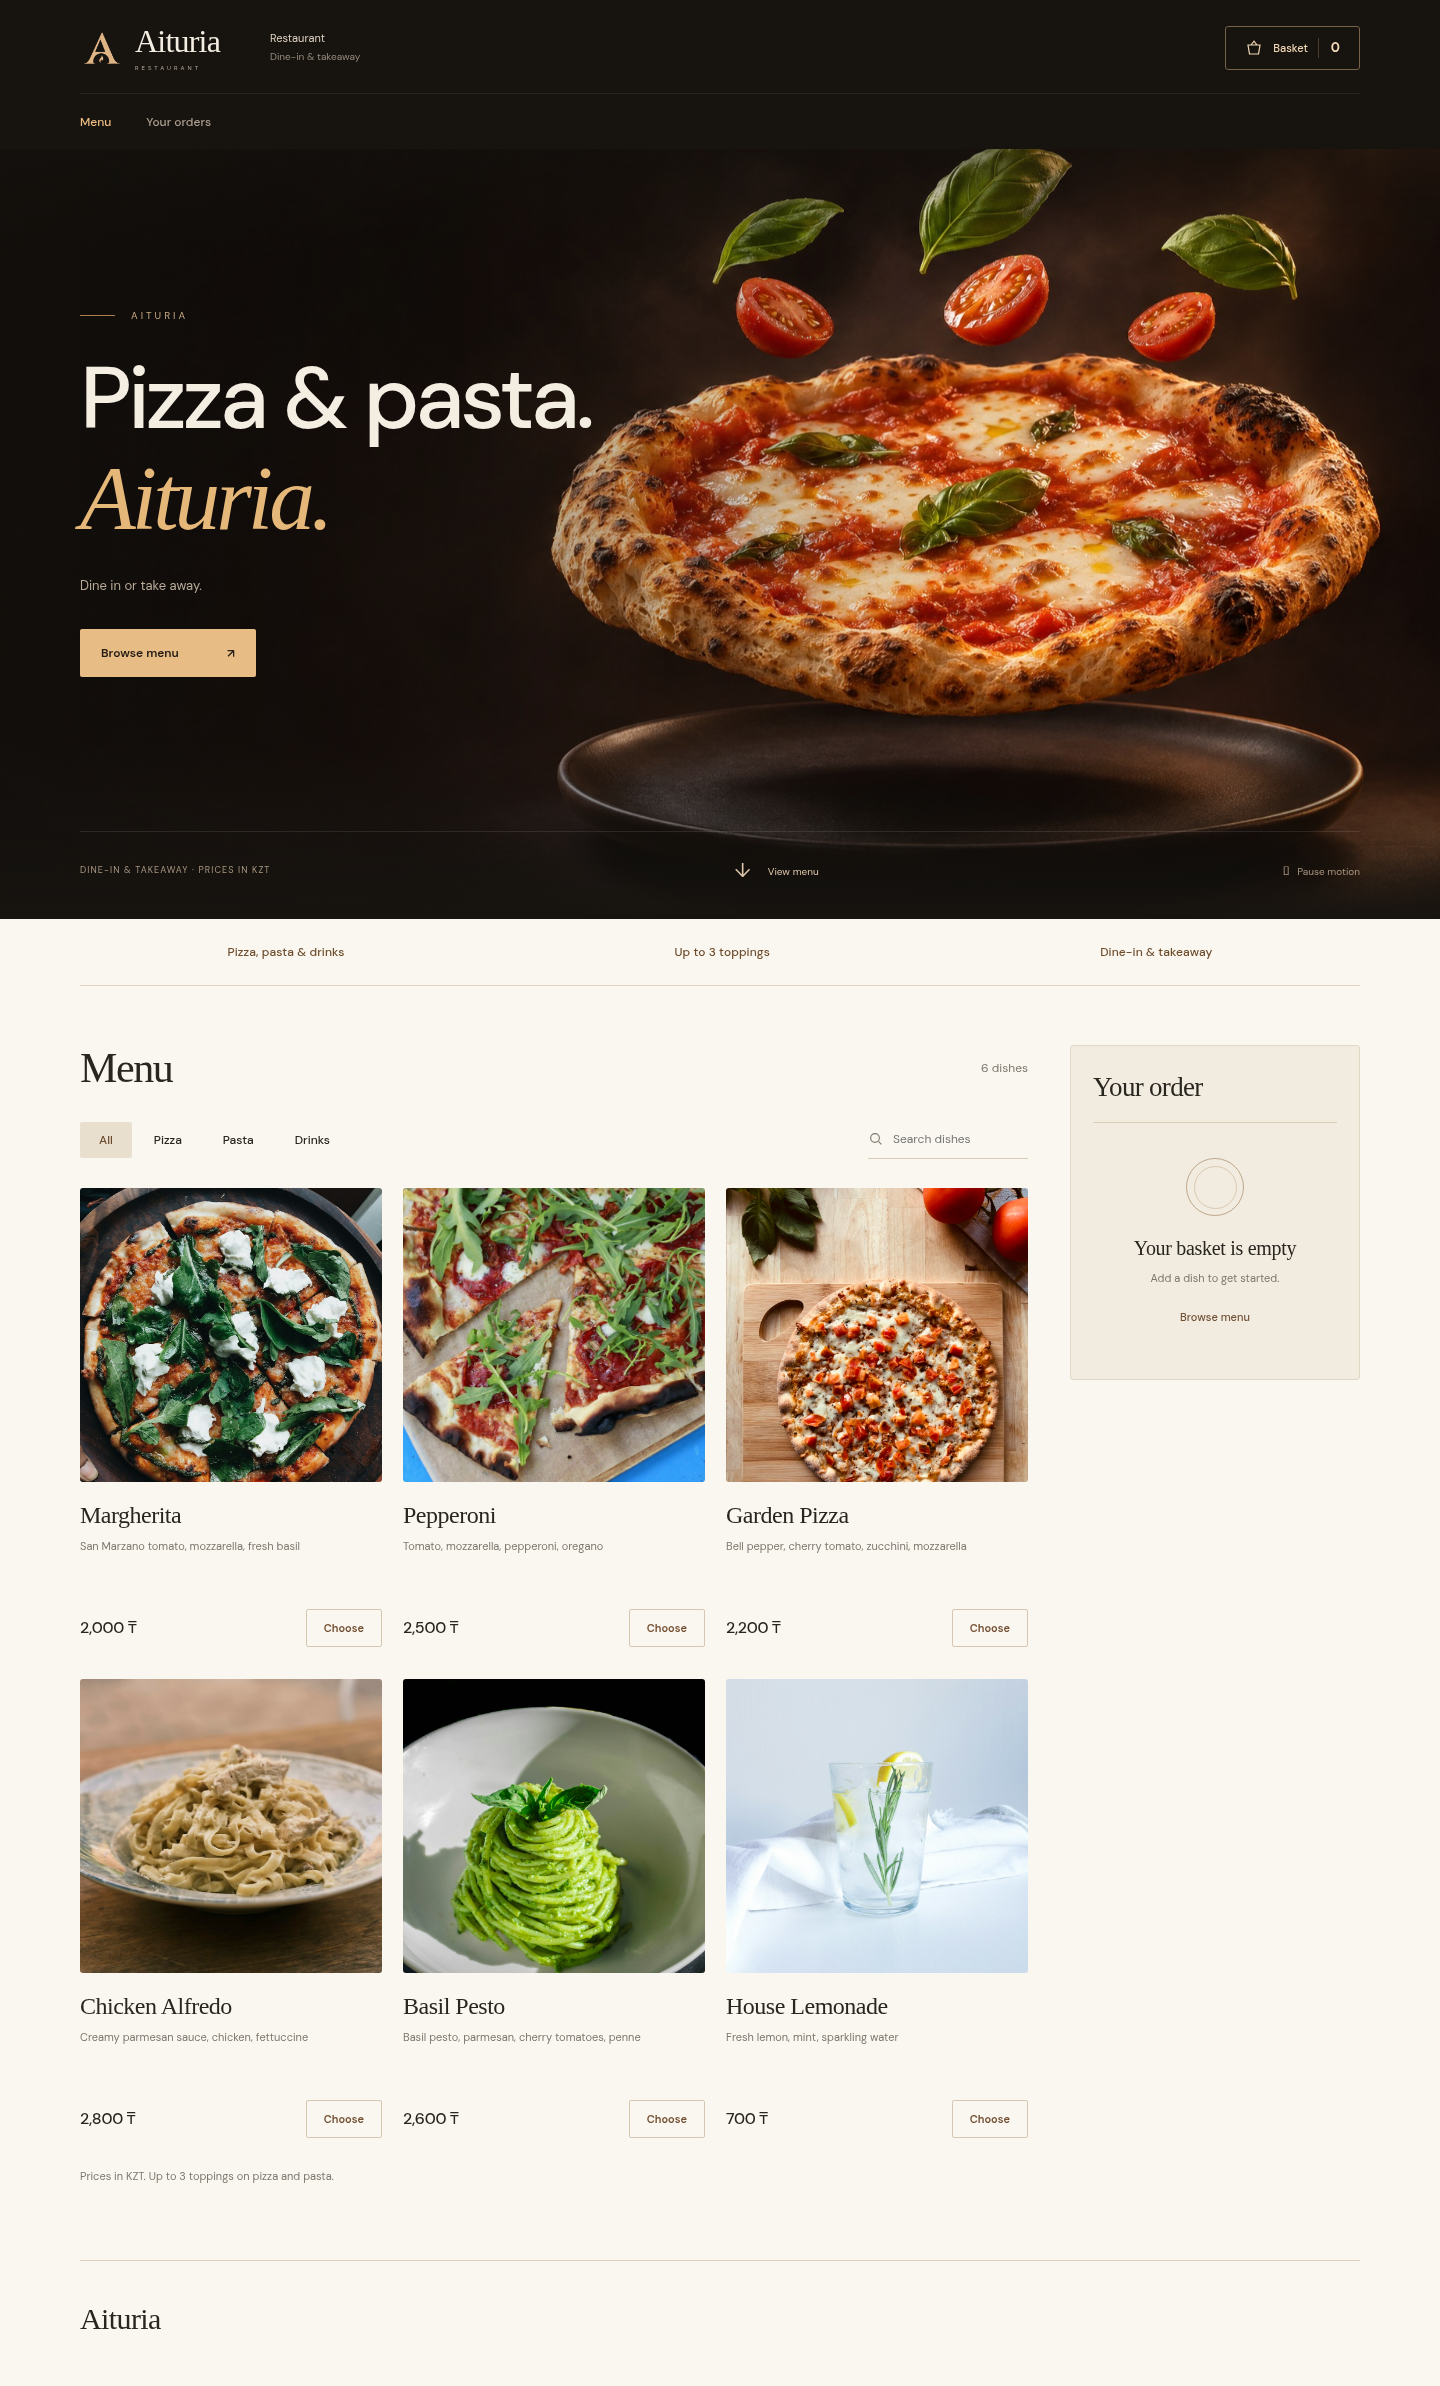
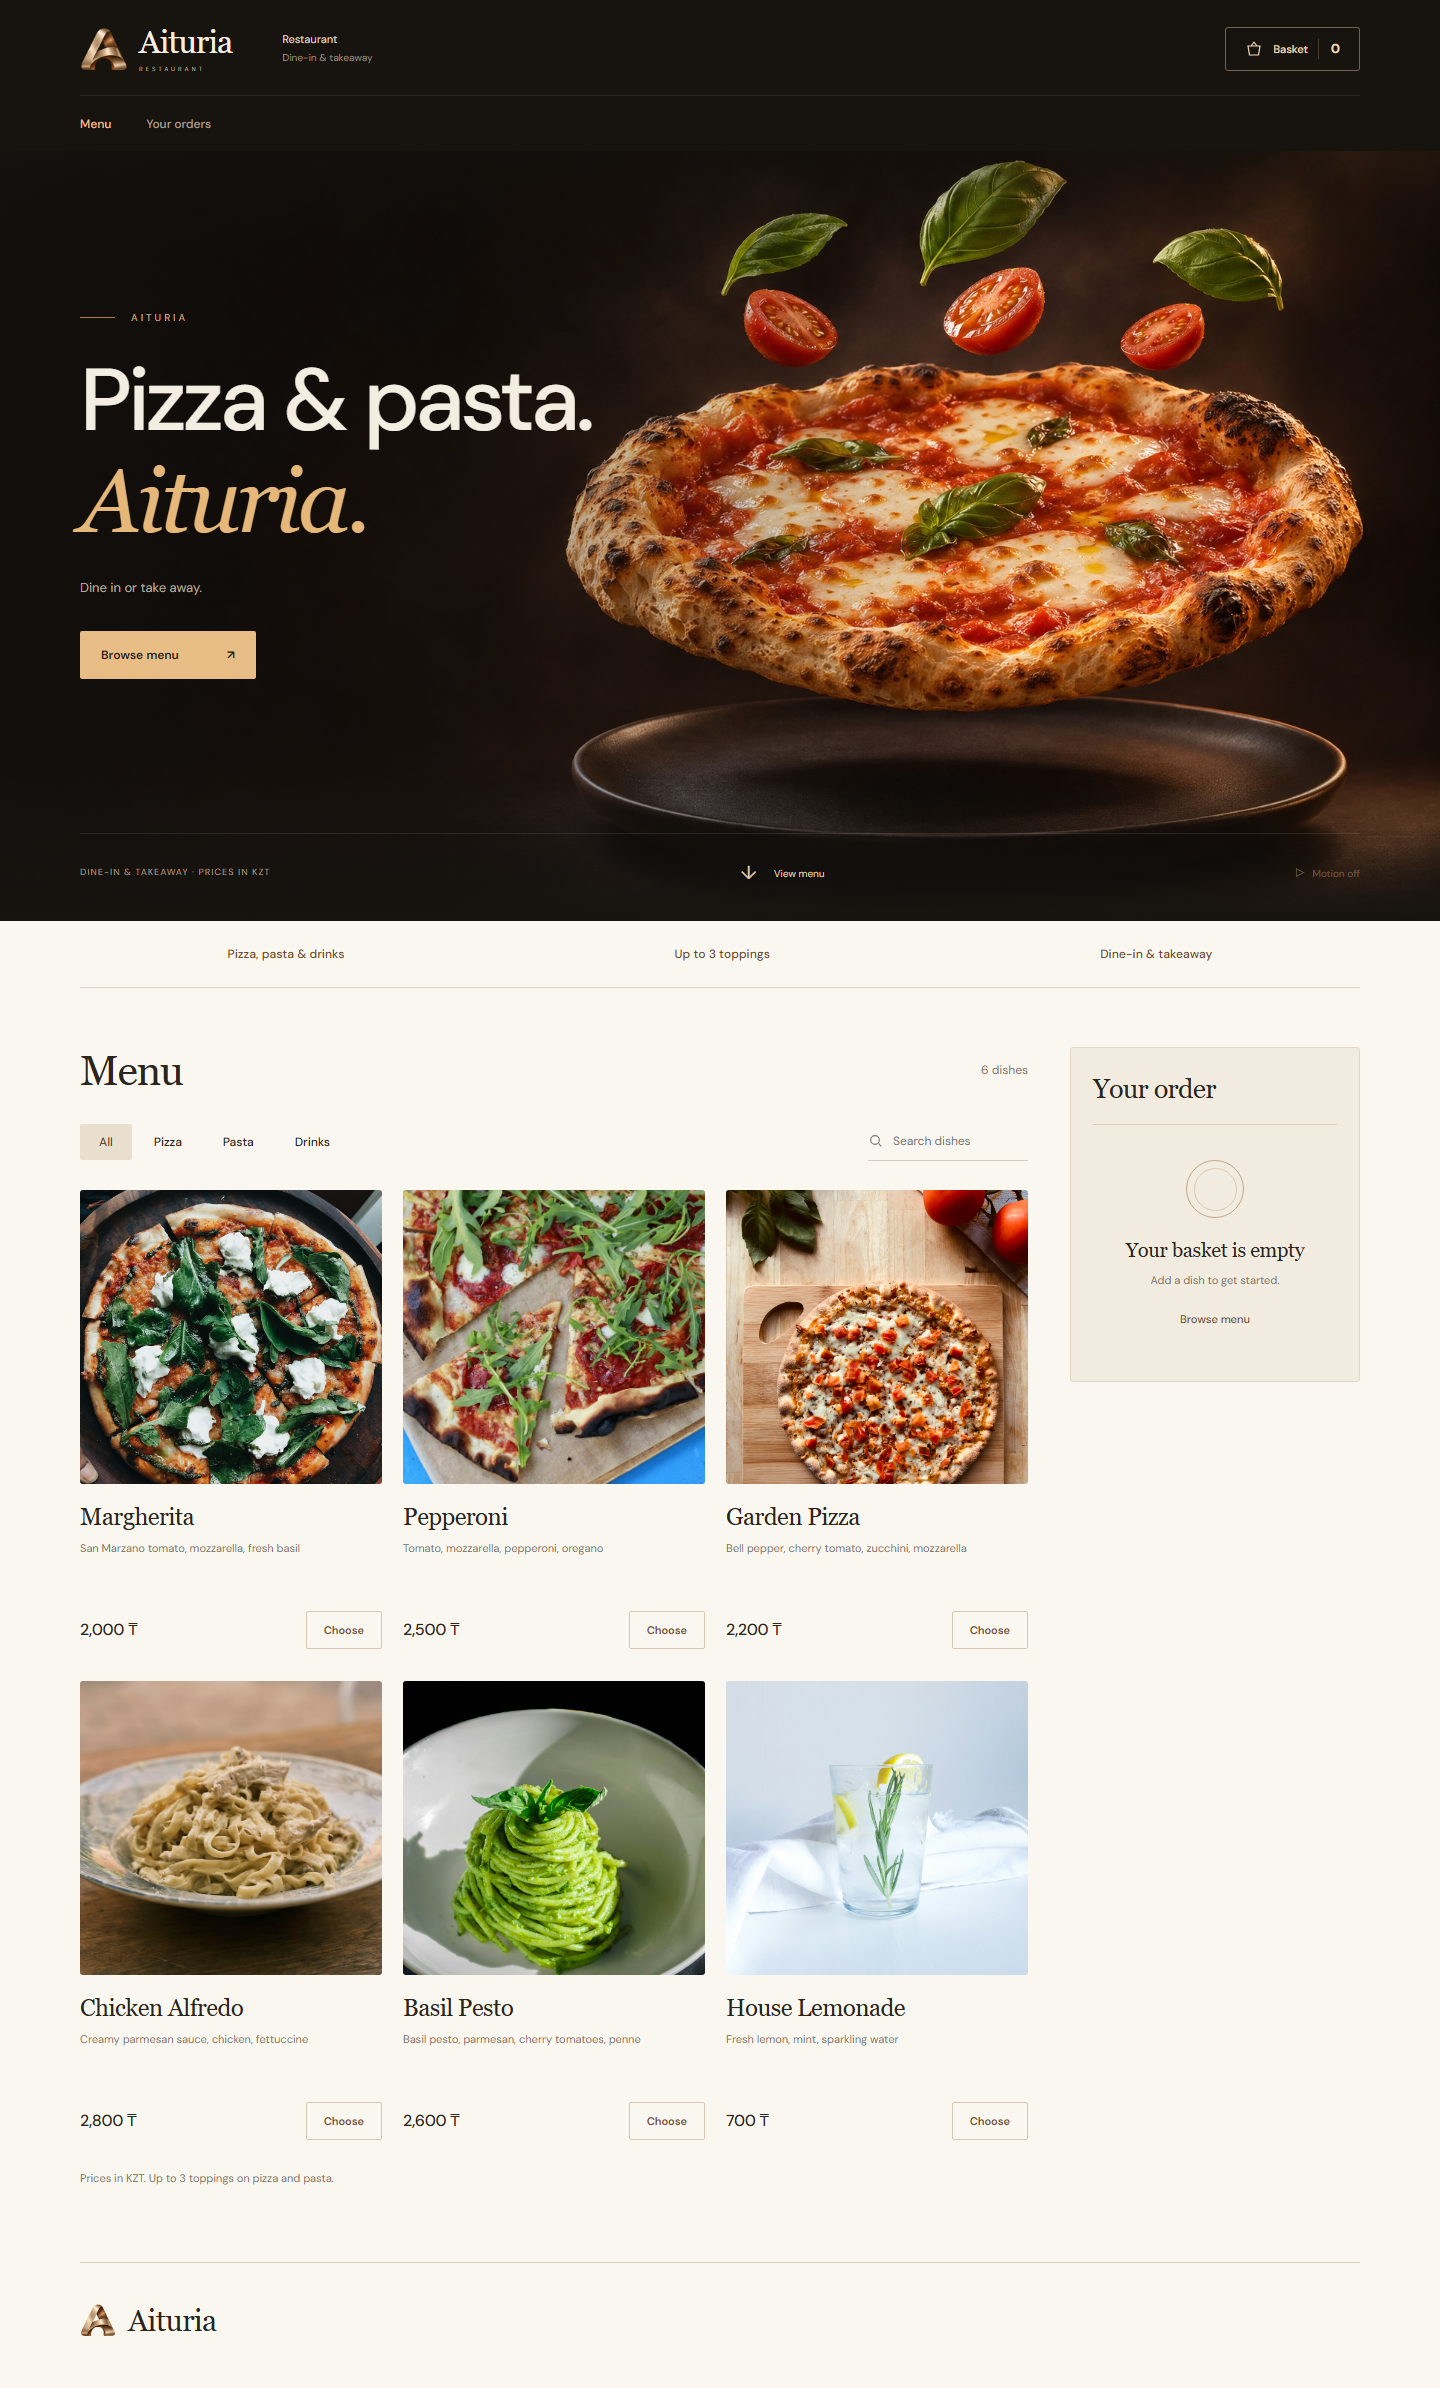
feat(brand): replace Aituria mark with sculpted bronze emblem

diff --git a/src/main/resources/static/index.html b/src/main/resources/static/index.html
@@ -6,7 +6,8 @@
   <meta name="theme-color" content="#171410">
   <meta name="description" content="Aituria. Pizza, pasta and drinks. Dine in or take away.">
   <title>Aituria — Pizza & pasta</title>
-  <link rel="icon" href="/images/aituria-mark.png" type="image/png">
+  <link rel="icon" href="/images/favicon.png" type="image/png" sizes="64x64">
+  <link rel="apple-touch-icon" href="/images/apple-touch-icon.png">
   <link rel="stylesheet" href="/fonts/fonts.css">
   <link rel="stylesheet" href="/styles.css">
   <script src="/app.js" defer></script>
@@ -15,7 +16,7 @@
 <body>
   <a class="skip-link" href="#main">Skip to content</a>
   <header class="site-header">
-    <a class="brand" href="#menu" aria-label="Aituria home"><img class="brand-mark" src="/images/aituria-mark.png" alt=""><span class="brand-name">Aituria<span class="brand-caption">RESTAURANT</span></span></a>
+    <a class="brand" href="#menu" aria-label="Aituria home"><img class="brand-mark" src="/images/aituria-emblem.png" width="48" height="48" alt=""><span class="brand-name">Aituria<span class="brand-caption">RESTAURANT</span></span></a>
     <div class="header-info"><strong>Restaurant</strong><span class="header-service">Dine-in & takeaway</span></div>
     <nav aria-label="Main navigation"><a href="#menu" class="active">Menu</a><a href="#orders">Your orders <span id="order-count" class="nav-count" hidden>0</span></a></nav>
     <a href="#your-order" class="basket-link" aria-label="Go to your basket"><svg viewBox="0 0 24 24" fill="none" stroke="currentColor" stroke-width="1.6" aria-hidden="true"><path d="M4 8h16l-2 12H6L4 8Z M8 8l4-5 4 5"/></svg><span>Basket</span><b id="cart-count">0</b></a>
@@ -78,7 +79,7 @@
       <div id="orders-error" class="error-box" role="alert" hidden></div><div id="orders-list" aria-live="polite"></div>
     </section>
   </main>
-  <footer class="site-footer page-width"><a class="footer-brand" href="#menu">Aituria</a></footer>
+  <footer class="site-footer page-width"><a class="footer-brand" href="#menu" aria-label="Aituria home"><img src="/images/aituria-emblem.png" width="36" height="36" alt="" loading="lazy">Aituria</a></footer>
   <dialog id="customize-dialog" class="customize-dialog" aria-labelledby="dialog-name">
     <button type="button" id="close-dialog" class="close-dialog" aria-label="Close dish options">×</button>
     <div class="dialog-visual"><img id="dialog-image" alt=""></div>

diff --git a/src/main/resources/static/styles.css b/src/main/resources/static/styles.css
@@ -991,15 +991,16 @@ body{background:var(--paper)}
 }
 
 /* Aituria wordmark and custom restaurant emblem. */
-.brand-mark{width:44px;height:44px;object-fit:contain;flex-shrink:0}
+.brand-mark{width:48px;height:48px;object-fit:contain;flex-shrink:0}
 .brand>span.brand-name{font-family:Georgia,'Times New Roman',serif;font-size:32px;font-weight:400;letter-spacing:-.8px}
 .brand-name .brand-caption{font-family:var(--sans);font-size:6px;letter-spacing:3px;margin-top:8px}
-.footer-brand{font-family:Georgia,'Times New Roman',serif;font-size:30px;font-weight:400}
+.footer-brand{display:inline-flex;align-items:center;gap:12px;font-family:Georgia,'Times New Roman',serif;font-size:30px;font-weight:400}
+.footer-brand img{width:36px;height:36px;object-fit:contain}
 .benefits-bar{justify-content:space-around;padding:24px 0}
 .benefit-item{justify-content:center}
 .benefit-item strong{font-weight:500;letter-spacing:.1px}
 
-@media(max-width:760px){.brand-mark{width:36px;height:38px}
+@media(max-width:760px){.brand-mark{width:38px;height:38px}
 .brand>span.brand-name{font-size:29px}
 .brand-name .brand-caption{font-size:5px;letter-spacing:2.5px;margin-top:6px}
 .benefits-bar{gap:8px;padding:21px 0}

diff --git a/docs/brand/README.md b/docs/brand/README.md
@@ -1,0 +1,48 @@
+# Aituria emblem
+
+The November 14, 2026 emblem replaces the earlier serif A and flame. A substantial
+folded bronze ribbon forms the A, with an arch-shaped opening suggesting an oven.
+The master has a transparent background and was checked against dark espresso and
+warm ivory backgrounds.
+
+Created using OpenAI's built-in image generator. Higgsfield rejected the request
+because the selected account required Basic or higher; the user approved using
+the available generator instead. No Higgsfield-generated logo is claimed.
+
+## Assets
+
+- `aituria-emblem-master.png`: original 1254 x 1254 RGBA artwork.
+- `../../src/main/resources/static/images/aituria-emblem.png`: 256 x 256 website asset.
+- `../../src/main/resources/static/images/favicon.png`: 64 x 64 browser icon.
+- `../../src/main/resources/static/images/apple-touch-icon.png`: 180 x 180 touch icon.
+
+Website derivatives preserve the original alpha channel and use high-quality
+resampling. The emblem appears in the header and footer beside accessible live text.
+
+## Verification
+
+`mvnw.cmd clean verify` passed with JDK 21: 61 tests, no failures, errors, or skips.
+Chromium checks at 1440px and 390px confirmed the header emblem loads at 48px and
+38px respectively, with no horizontal overflow or JavaScript/resource errors.
+The desktop and mobile menu screenshots in `docs/screenshots/` show the new logo.
+
+## Generation prompt
+
+Use case: logo-brand. Create one exceptional, production-ready sculptural 3D emblem
+for AITURIA, a contemporary pizza and pasta restaurant with a dark espresso and warm
+ivory website. This is a brand new logo, not an edit of the rejected serif A/flame.
+Deliver a single isolated symbol on a genuinely transparent background, no text,
+mockup, board, or extra icons. Design a bespoke uppercase A as one elegantly folded,
+substantial champagne-bronze metal ribbon. The arch-shaped negative space should
+subtly suggest a wood-fired oven. Rounded triangular silhouette, confident broad
+curves and precisely machined edges. An asymmetric ribbon crossover creates a
+distinctive custom monogram, instantly recognizable as an A at 32 pixels.
+Contemporary architectural Italian restaurant identity. Satin-brushed pale bronze
+front surfaces, deep warm copper sidewalls, fine polished bevels, physically
+plausible reflections and subtle microtexture. Nearly frontal with a slight
+three-quarter view to reveal generous extrusion thickness. Soft studio key from
+upper left, restrained rim highlights. Crisp clean silhouette and transparent
+alpha. No colorful pixels, flame, stars, wreath, crown, thin serif font, marble,
+sparkles, floor, floating shadow, background color, or checkerboard. Centered square
+composition, mark occupies 84 percent of canvas. Careful geometric proportions,
+high-quality photorealistic 3D product render with readable shadowed sides.
